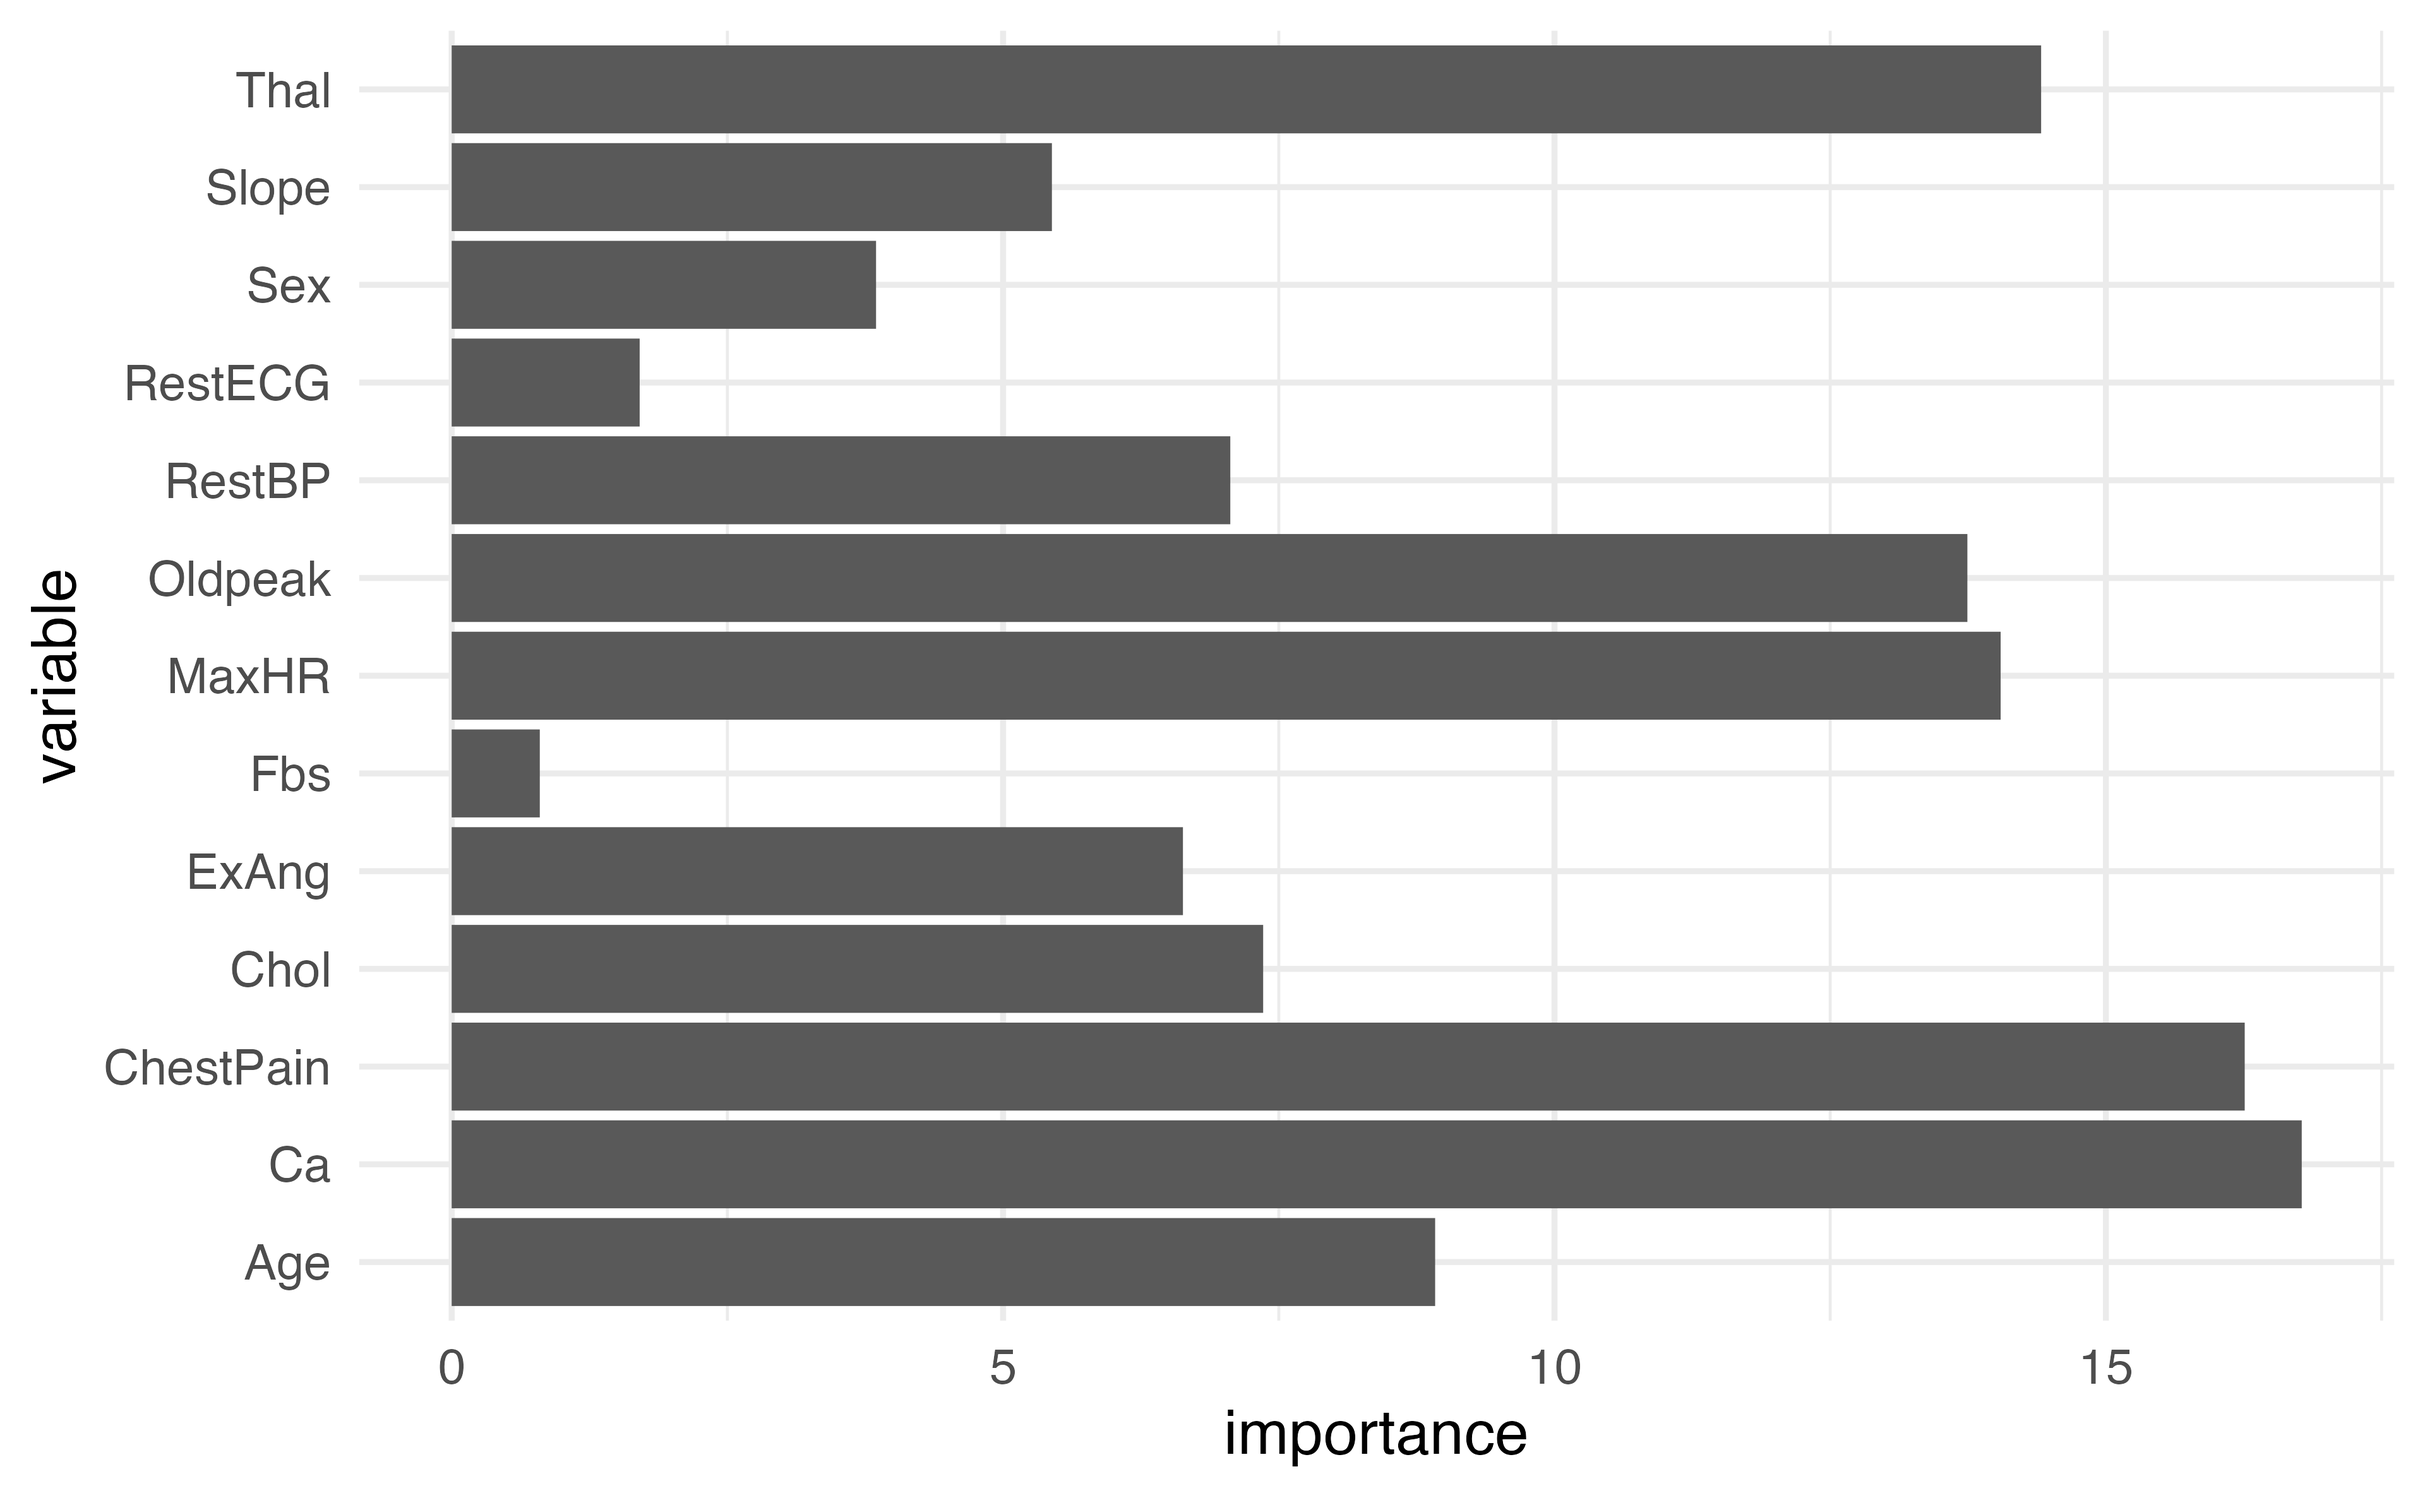
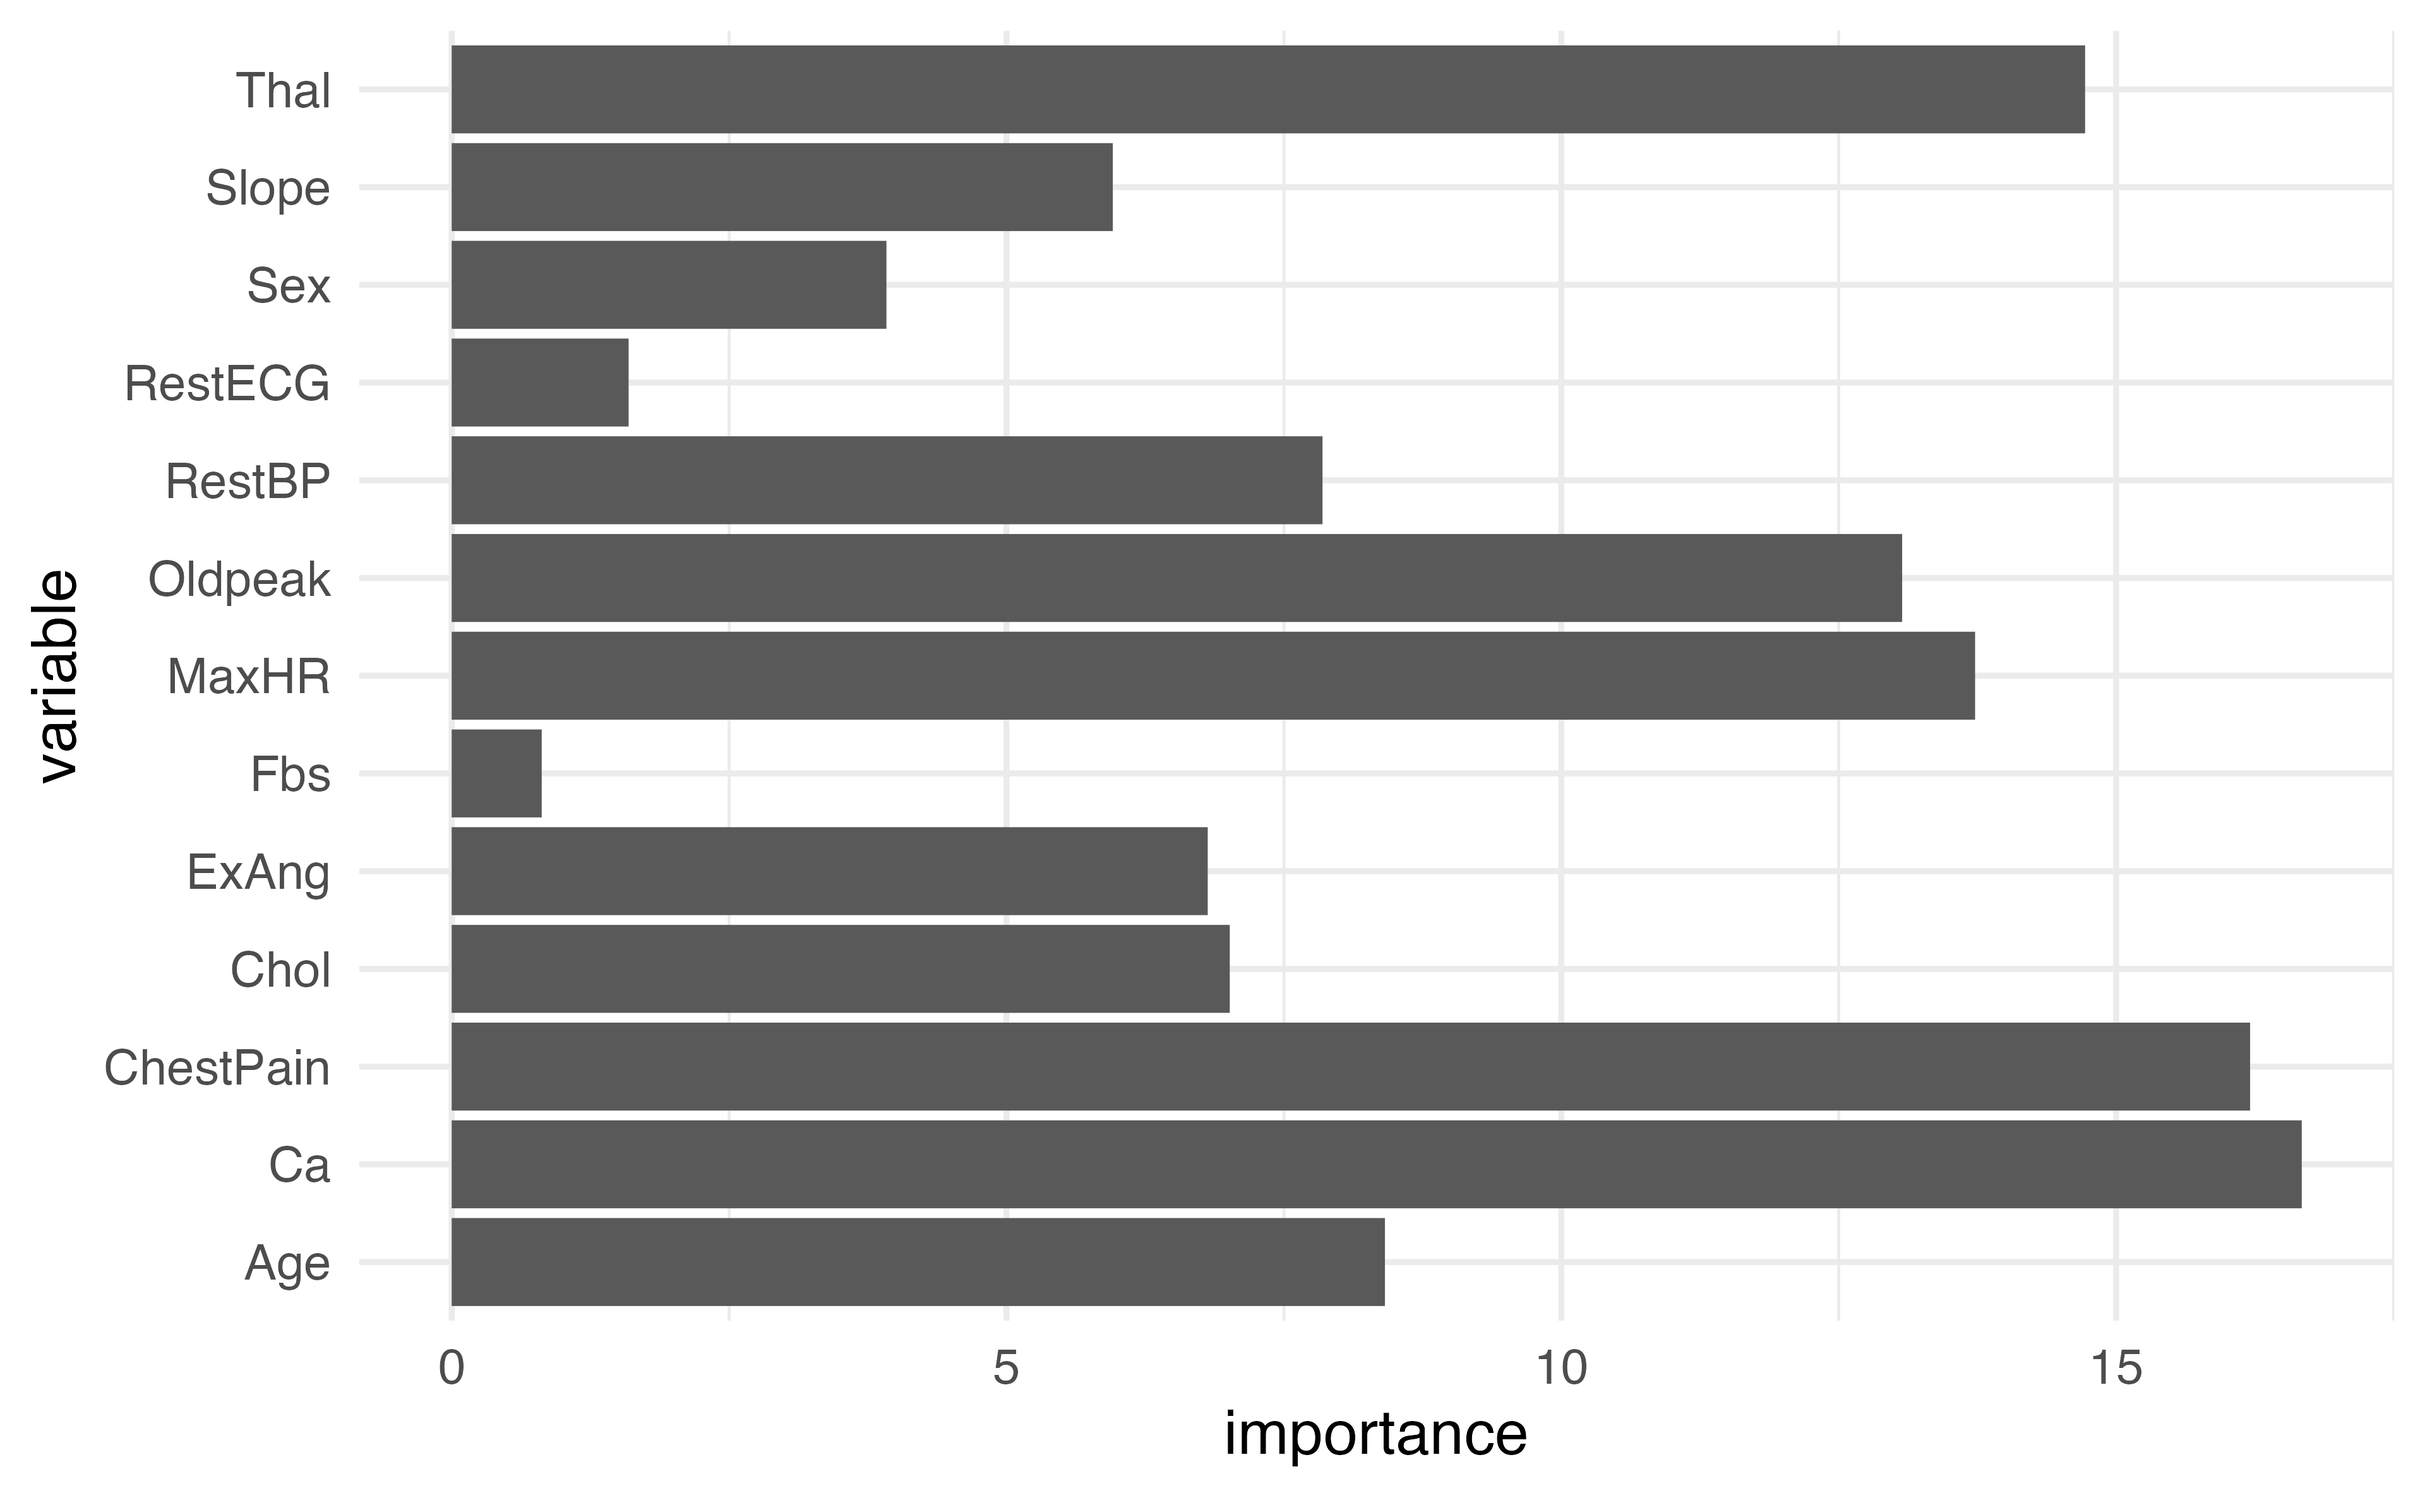
update 19

diff --git a/19-boosting.html b/19-boosting.html
@@ -10,7 +10,7 @@
   <meta name="generator" content="quarto-1.2.269">
 
   <meta name="author" content="Lucy D’Agostino McGowan">
-  <title>Boosting Decision Trees: The Algorithm</title>
+  <title>Boosting Decision Trees and Variable Importance</title>
   <meta name="apple-mobile-web-app-capable" content="yes">
   <meta name="apple-mobile-web-app-status-bar-style" content="black-translucent">
   <meta name="viewport" content="width=device-width, initial-scale=1.0, maximum-scale=1.0, user-scalable=no, minimal-ui">
@@ -392,7 +392,7 @@
     <div class="slides">
 
 <section id="title-slide" data-background-color="#fff" data-color="#70001A" class="quarto-title-block center">
-  <h1 class="title">Boosting Decision Trees: The Algorithm</h1>
+  <h1 class="title">Boosting Decision Trees and Variable Importance</h1>
 
 <div class="quarto-title-authors">
 <div class="quarto-title-author">
@@ -587,7 +587,7 @@ Lucy D’Agostino McGowan
 </div>
 <div class="cell" data-layout-align="center">
 <div class="cell-output-display">
-<div class="countdown" id="timer_78d3defd" data-update-every="1" tabindex="0" style="right:0;bottom:0;">
+<div class="countdown" id="timer_7ea07101" data-update-every="1" tabindex="0" style="right:0;bottom:0;">
 <div class="countdown-controls"><button class="countdown-bump-down">−</button><button class="countdown-bump-up">+</button></div>
 <code class="countdown-time"><span class="countdown-digits minutes">06</span><span class="countdown-digits colon">:</span><span class="countdown-digits seconds">00</span></code>
 </div>
@@ -643,9 +643,9 @@ Lucy D’Agostino McGowan
 <div class="sourceCode cell-code" id="cb6"><pre class="sourceCode numberSource r number-lines code-with-copy"><code class="sourceCode r"><span id="cb6-1"><a href="#cb6-1"></a>ranger<span class="sc">::</span><span class="fu">importance</span>(model<span class="sc">$</span>fit<span class="sc">$</span>fit<span class="sc">$</span>fit)</span></code><button title="Copy to Clipboard" class="code-copy-button"><i class="bi"></i></button></pre></div>
 <div class="cell-output cell-output-stdout">
 <pre><code>       Age        Sex  ChestPain     RestBP       Chol        Fbs    RestECG 
- 8.9176023  3.8479686 16.2586620  7.0602054  7.3581972  0.7988767  1.7044950 
+ 8.4105385  3.9179814 16.2075537  7.8479381  7.0121649  0.8112367  1.5944339 
      MaxHR      ExAng    Oldpeak      Slope         Ca       Thal 
-14.0455240  6.6307565 13.7438718  5.4426297 16.7757157 14.4126291 </code></pre>
+13.7292165  6.8135135 13.0718556  5.9581823 16.6729564 14.7206036 </code></pre>
 </div>
 </div>
 </section>
@@ -656,9 +656,9 @@ Lucy D’Agostino McGowan
 <span id="cb8-2"><a href="#cb8-2"></a><span class="fu">importance</span>(model<span class="sc">$</span>fit<span class="sc">$</span>fit<span class="sc">$</span>fit)</span></code><button title="Copy to Clipboard" class="code-copy-button"><i class="bi"></i></button></pre></div>
 <div class="cell-output cell-output-stdout">
 <pre><code>       Age        Sex  ChestPain     RestBP       Chol        Fbs    RestECG 
- 8.9176023  3.8479686 16.2586620  7.0602054  7.3581972  0.7988767  1.7044950 
+ 8.4105385  3.9179814 16.2075537  7.8479381  7.0121649  0.8112367  1.5944339 
      MaxHR      ExAng    Oldpeak      Slope         Ca       Thal 
-14.0455240  6.6307565 13.7438718  5.4426297 16.7757157 14.4126291 </code></pre>
+13.7292165  6.8135135 13.0718556  5.9581823 16.6729564 14.7206036 </code></pre>
 </div>
 </div>
 <div class="cell" data-layout-align="center">
